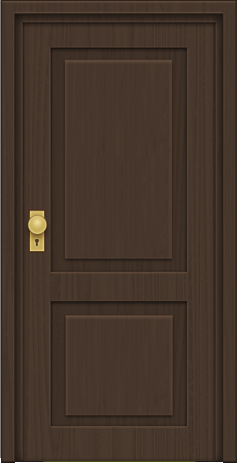
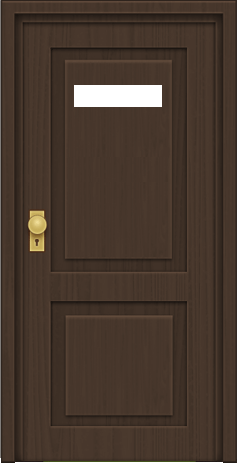
Add sliding panel to door to replace light

Changed region(s): [[0.2954, 0.1814, 0.7089, 0.2419]]

diff --git a/speakeasy_vaudeville/app/assets/stylesheets/app.css.scss b/speakeasy_vaudeville/app/assets/stylesheets/app.css.scss
@@ -253,7 +253,9 @@ z-index: 100; background: -webkit-gradient(linear, 0% 100%, 0% 0%, from($weather
   h1 { position: relative; padding-bottom: 20px; background-size: 400px 518px; background: url("speakeasy.png") no-repeat left top; left: -15px; height: 60px; width: 400px; }
   p { margin-top: 20px; }
   div { position: relative; }
-  #door { right: 0px; top: -60px; position:absolute; height: 463px; width: 236px; background: url("door.png") 50% 50%; }
+  #door { right: 0px; top: -60px; position:absolute; height: 463px; width: 236px; background: url("door.png") 50% 50%; overflow: hide;
+    img#door_panel { position: relative; top: 85px; left: 73px; width: 88px; }
+  }
   #spotlight { right: -90px; top: -65px; position:absolute; height: 648px; width: 850px; background: url("spotlight.png");
     img { width: 32px; height: 83px; top: -61px; left: 630px; position: absolute; }
   }
